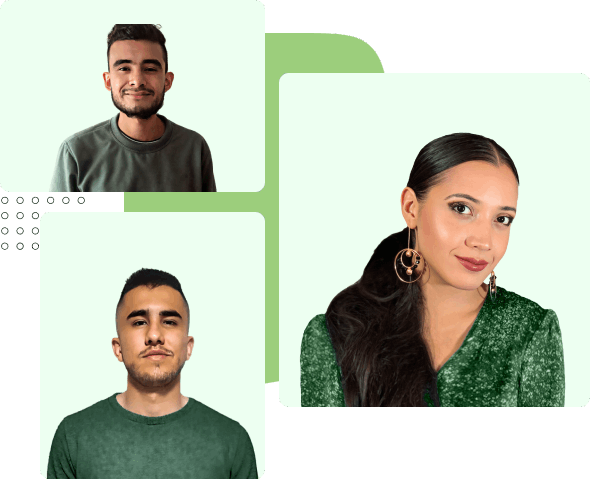
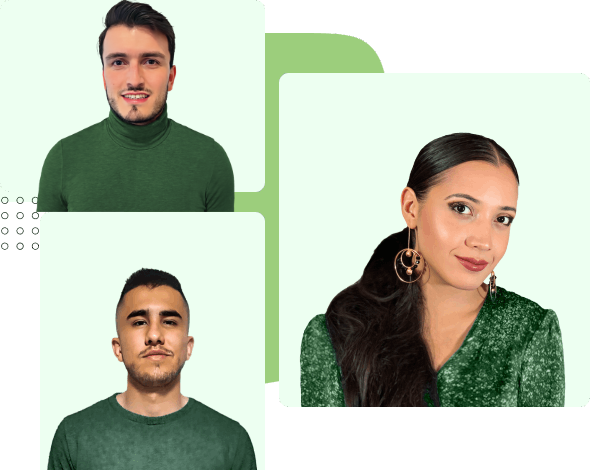
cambios edicion

diff --git a/src/components/Web/Home.vue b/src/components/Web/Home.vue
@@ -21,7 +21,7 @@ const viewProjects = ref<number>(1)
 const viewAreas = ref<number>(1)
 
 const quote = (): void => {
-	window.open("https://7j1l5jqb43v.typeform.com/to/kSlNtr0J", '_blank');
+	window.open("https://7jywpogtw4m.typeform.com/to/RvV3yTQk", '_blank');
 }
 const bot = (): void => {
 	window.open("https://chatbot.letsdoitnow.us/doitbot/chat", '_blank');
@@ -224,20 +224,20 @@ onBeforeMount(() => {
 		</div>
 		<div class="flex flex-row items-center gap-4">
 			<div>
-			<img src="../../assets/team/edinson.png" alt="" class="w-[100px] border rounded-full">
+			<img src="../../assets/team/felipe.png" alt="" class="w-[100px] border rounded-full">
 			</div>
 			<div class="w-[300px]">
-				<h1 class="font-semibold text-2xl text-[#263F28]">Edinson Acevedo</h1>
+				<h1 class="font-semibold text-2xl text-[#263F28]">felipe</h1>
 				<p class="font-medium text-xl text-[#475569]">Fullstack Developer</p>
 				<p class="font-medium">#javascript #vuejs #nodejs #backend</p>
 			</div>
 		</div>
 		<div class="flex flex-row items-center gap-4">
 			<div>
-			<img src="../../assets/team/alejandra.png" alt="" class="w-[100px] border rounded-full">
+			<img src="../../assets/team/brian.png" alt="" class="w-[100px] border rounded-full">
 			</div>
 			<div class="w-[300px]">
-				<h1 class="font-semibold text-2xl text-[#263F28]">Alejandra Martinez</h1>
+				<h1 class="font-semibold text-2xl text-[#263F28]">Brian Ochoa</h1>
 				<p class="font-medium text-xl text-[#475569]">Product Owner</p>
 				<p class="font-medium">#scrummaster</p>
 			</div>
@@ -254,10 +254,10 @@ onBeforeMount(() => {
 		</div>
 		<div class="flex flex-row items-center gap-4">
 			<div>
-			<img src="../../assets/team/daniela.png" alt="" class="w-[100px] border rounded-full">
+			<img src="../../assets/team/viviana.png" alt="" class="w-[100px] border rounded-full">
 			</div>
 			<div class="w-[300px]">
-				<h1 class="font-semibold text-2xl text-[#263F28]">Daniela Gomez</h1>
+				<h1 class="font-semibold text-2xl text-[#263F28]">Viviana Villabona</h1>
 				<p class="font-medium text-xl text-[#475569]">UX/UI Designer</p>
 				<p class="font-medium">#uxresearch #figma</p>
 			</div>

diff --git a/src/components/Web/Event.vue b/src/components/Web/Event.vue
@@ -263,11 +263,7 @@ onUnmounted(() => {
 				<p class="font-bold text-[#333333] text-2xl">Milton Suárez</p>
 				<p class="font-medium text-[#333333] text-lg">Fullstack Marketer</p>
 			</div>
-			<div class="flex flex-col items-center">
-				<img src="../../assets/eventResources/juanes.png" alt="" class="max-h-[200px]">
-				<p class="font-bold text-[#333333] text-2xl">Juan Esteban Paca</p>
-				<p class="font-medium text-[#333333] text-lg">CGO en Let's Do It Now</p>
-			</div>
+			
 			<div class="flex flex-col items-center">
 				<img src="../../assets/eventResources/joan.png" alt="" class="max-h-[200px]">
 				<p class="font-bold text-[#333333] text-2xl">Joan Ariza</p>

diff --git a/src/components/Web/Services.vue b/src/components/Web/Services.vue
@@ -13,7 +13,7 @@ onMounted(() => {
 });
 
 const freeConsulation = (): void => {
-	window.open("https://calendly.com/juanes-paca-letsdoitnow/30min?month=2023-07", '_blank')
+	window.open("https://calendly.com/letsdoitnow/webinar", '_blank')
 }
 </script>
 
@@ -30,7 +30,7 @@ const freeConsulation = (): void => {
 				<p class="my-8 text-[#333333]">
 					{{ language.text002 }}
 				</p>
-				<a @click="$router.push('/portfolio')">
+				<a @click="freeConsulation">
 					<button
 						class="text-m font-bold text-[#333333] underline relative text-gray-600 hover:text-black transition-colors duration-300 hover:after:bg-black hover:after:w-full">
 						{{ language.text003 }}

diff --git a/src/components/Web/Pricing.vue b/src/components/Web/Pricing.vue
@@ -16,10 +16,10 @@ const jobs = (): void => {
     window.open("https://www.linkedin.com/company/letsdoitnowus/jobs/", '_blank')
 }
 const freeConsulation = (): void => {
-	window.open("https://calendly.com/juanes-paca-letsdoitnow/30min?month=2023-07", '_blank')
+	window.open("https://calendly.com/letsdoitnow/webinar", '_blank')
 }
 const quote = (): void => {
-	window.open("https://7j1l5jqb43v.typeform.com/to/kSlNtr0J", '_blank');
+	window.open("https://7jywpogtw4m.typeform.com/to/RvV3yTQk", '_blank');
 }
 </script>
 

diff --git a/src/components/Web/AboutTeam.vue b/src/components/Web/AboutTeam.vue
@@ -15,7 +15,7 @@ onMounted(() => {
 });
 
 const freeConsulation = (): void => {
-	window.open("https://calendly.com/juanes-paca-letsdoitnow/30min?month=2023-07", '_blank')
+	window.open("https://calendly.com/letsdoitnow/webinar", '_blank')
 }
 
 const chat = (): void => {
